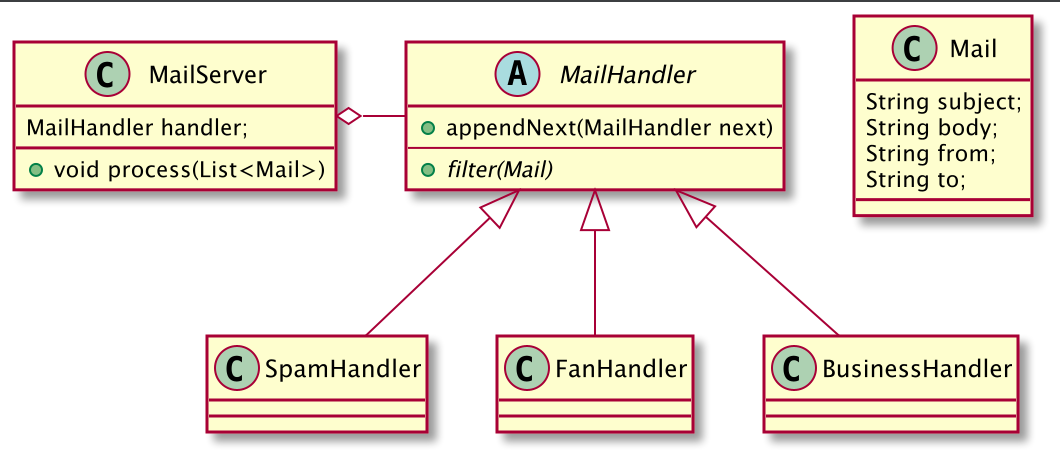
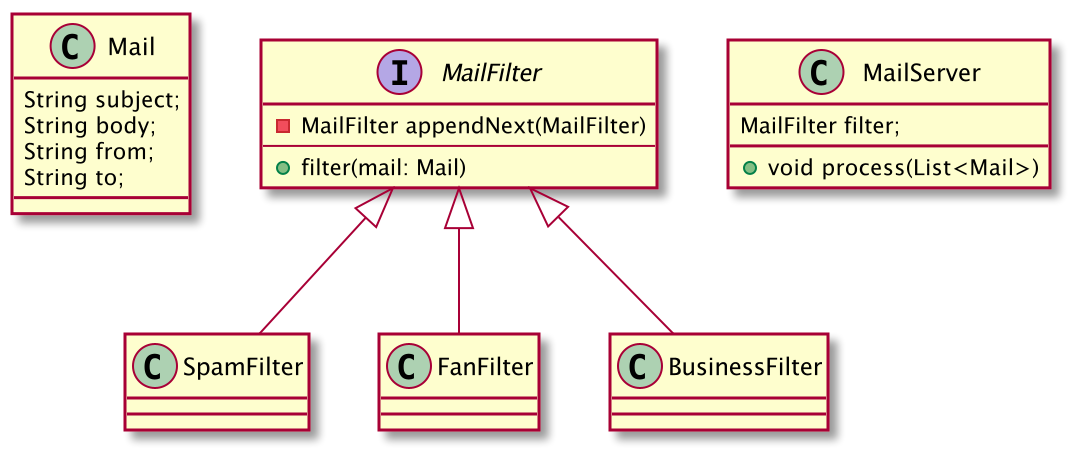
Some fixes to make it blog ready

diff --git a/docs/cor/Summary.MD b/docs/cor/Summary.MD
@@ -1,3 +1,9 @@
+---
+title: Chain of Responsibility Design Pattern
+date: 2021-08-15
+tags: design-patterns,java8
+author: Kuldeep Yadav
+---
 ## Chain Of Responsibility 
 Chain of responsibility pattern is behavioural pattern from G.O.F book about design patterns, this pattern is very useful
 to decouple the sender from its receivers and each receiver has some responsibility to fulfill.
@@ -23,8 +29,8 @@ diagram of the classes involved.
 
 ![Class Diagram](../img/cor_class.png)
 
-Here, `MailHandler` is the abstract class with abstract `filter` method, which will be then implemented by every concrete
-class i.e. `SpamHandler`, `FanHandler`, so each handler will provide its own implementation for filter logic.
+Here, `MailFilter` is the functional interface with abstract `filter` method, which will be then implemented by every concrete
+class i.e. `SpamFilter`, `FanFilter`, so each filter will provide its own implementation for filter logic.
 
 `MailServer` class is the sender class which will send the mail object to handler assigned to it, in actual 
 implementation it would not know if there are more than one handler and which handler it is interacting with.
@@ -80,7 +86,7 @@ As you can see the `SpamFilter` class implements the `MailFilter` interface, so 
 which will then check if the `Mail` object can be filtered and if true then it will process (In this case only printing
 on console).
 
-> This cannot not be the actual logic for spam filtering in real life, please don't use it in production :)
+> The filtering logic in above example is just for demo purpose, please don't use it in production :)
 
 Similarly, there would be other filters in the chain which will process the `Mail` object and work on it if the 
 logic/condition passes. Let's see how it is being used by the sender/client.
@@ -104,7 +110,7 @@ class MailServer {
 }
 ```
 Here for the demo purpose I have chosen to define the chain in the same class but in real scenario, you may want to have
-some strategy which will generate this chain and give you the `filter` object to deal with in your code. Here, we need
+some strategy or factory which will generate this chain and give you the `filter` object to deal with in your code. Here, we need
 to check only the `process` method which is receiving list of mails and process them one by one.
 
 You can see that this is much cleaner solution than if-else chain in your code and also decouples the sender from the 
@@ -126,6 +132,20 @@ the decorator pattern.
 * Use it when multiple handlers must be able to process a request object, and you don't want sender to have any idea
 about multiple handlers.
 * Don't use it when the client must know the handler which will execute the request.
+
+### Conclusion
+
+COR design pattern helps to decouple the sender from its receivers, the request sent by sender can be handled by
+multiple handlers or receivers without sender knowing it, which will then gives flexibility to remove or add the receivers
+without touching the code of sender. `javax.servlet.Filter` API is nice example of this pattern implemented in java
+world, another good case of this pattern is logging, [wikipedia](https://en.wikipedia.org/wiki/Chain-of-responsibility_pattern)
+mention this example with implmentation. But COR pattern also have its downsides so as a developer we must be aware of
+these.
+
+### References
+* [Chain of Responsibility pattern wikipedia](https://en.wikipedia.org/wiki/Chain-of-responsibility_pattern)
+* [Head First Design Pattern book](https://www.oreilly.com/library/view/head-first-design/0596007124/)
+* [Source code for above example](https://github.com/novicedev7291/design-patterns)
 
 
 ---
